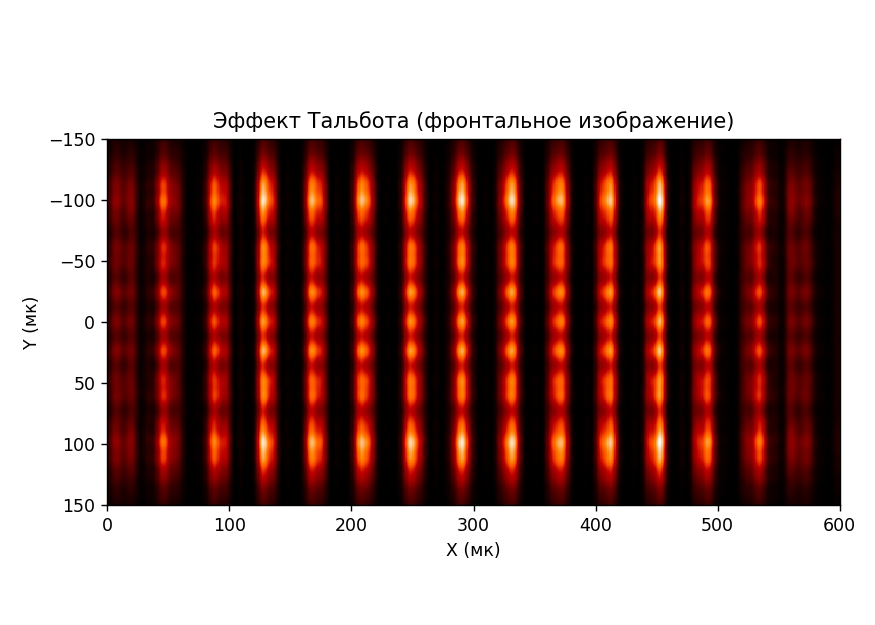
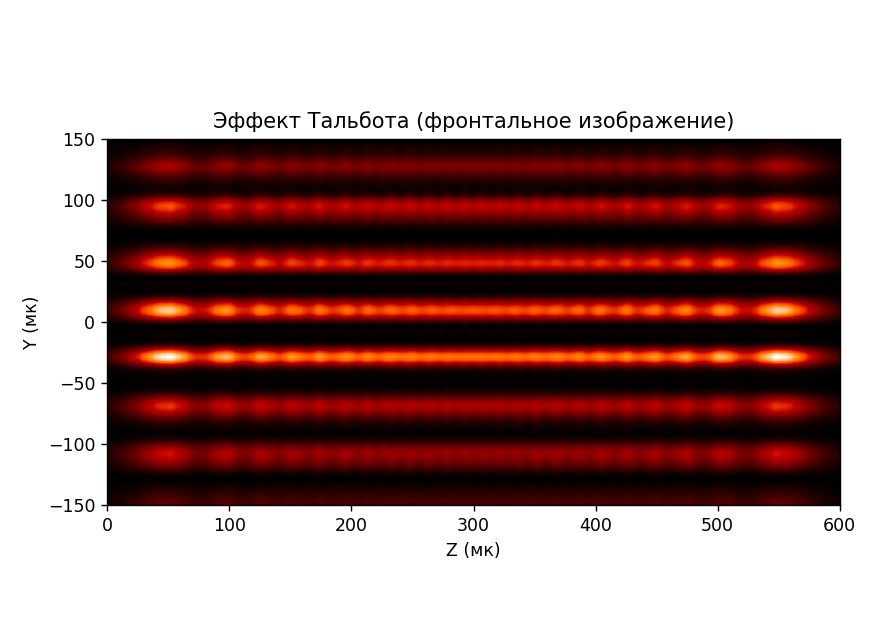
Rotated front_output. But Z len breaks if modify wavelength and period

diff --git a/main.py b/main.py
@@ -16,23 +16,25 @@ import config
 # mm = 1000 * um
 
 def get_front(z_indent):
-    u1 = Scalar_source_XY(x=z, y=x, wavelength=wavelength)
+    y = np.linspace(-config.start_x_axic, config.start_x_axic, config.plot_resolution_x)
+    x = np.linspace(config.start_z_axic, config.end_z_axic, config.plot_resolution_y)
+
+    u1 = Scalar_source_XY(x=x, y=y, wavelength=wavelength)
     u1.plane_wave(A=1)
 
-    t1 = Scalar_mask_XY(x=z, y=x, wavelength=wavelength)
+    t1 = Scalar_mask_XY(x=x, y=y, wavelength=wavelength)
     # t1.slit(x0=0, size=50 * um, angle=0 * degrees)
-    t1.ronchi_grating(x0=config.phase_shift, period=config.period, fill_factor=0.5)
+    t1.ronchi_grating(x0=config.phase_shift, period=config.period, fill_factor=0.5, angle=90 * degrees)
 
     u2 = u1 * t1
-    u3 = u2.RS(z=z_indent, new_field=True)
+    u3 = u2.RS(z=z_indent)
     u3.draw()
 
     plt.title('Эффект Тальбота (фронтальное изображение)')
-    plt.xlabel("X (мк)")
+    plt.xlabel("Z (мк)")
     plt.ylabel("Y (мк)")
 
     plt.savefig(config.picture_front_name)
-
 
 
 rcParams['figure.figsize'] = (config.picture_resolution_x, config.picture_resolution_y)
@@ -59,7 +61,7 @@ talbot_effect.draw(kind='intensity')
 
 plt.title('Эффект Тальбота')
 plt.xlabel("X (мк)")
-plt.ylabel("Z (мк)")
+plt.ylabel("Y (мк)")
 plt.ylim(-config.plt_x_size, config.plt_x_size)  # in basic world Z axis goes up
 # but here X axis go up and Z axis go right, so here can be misunderstanding
 
